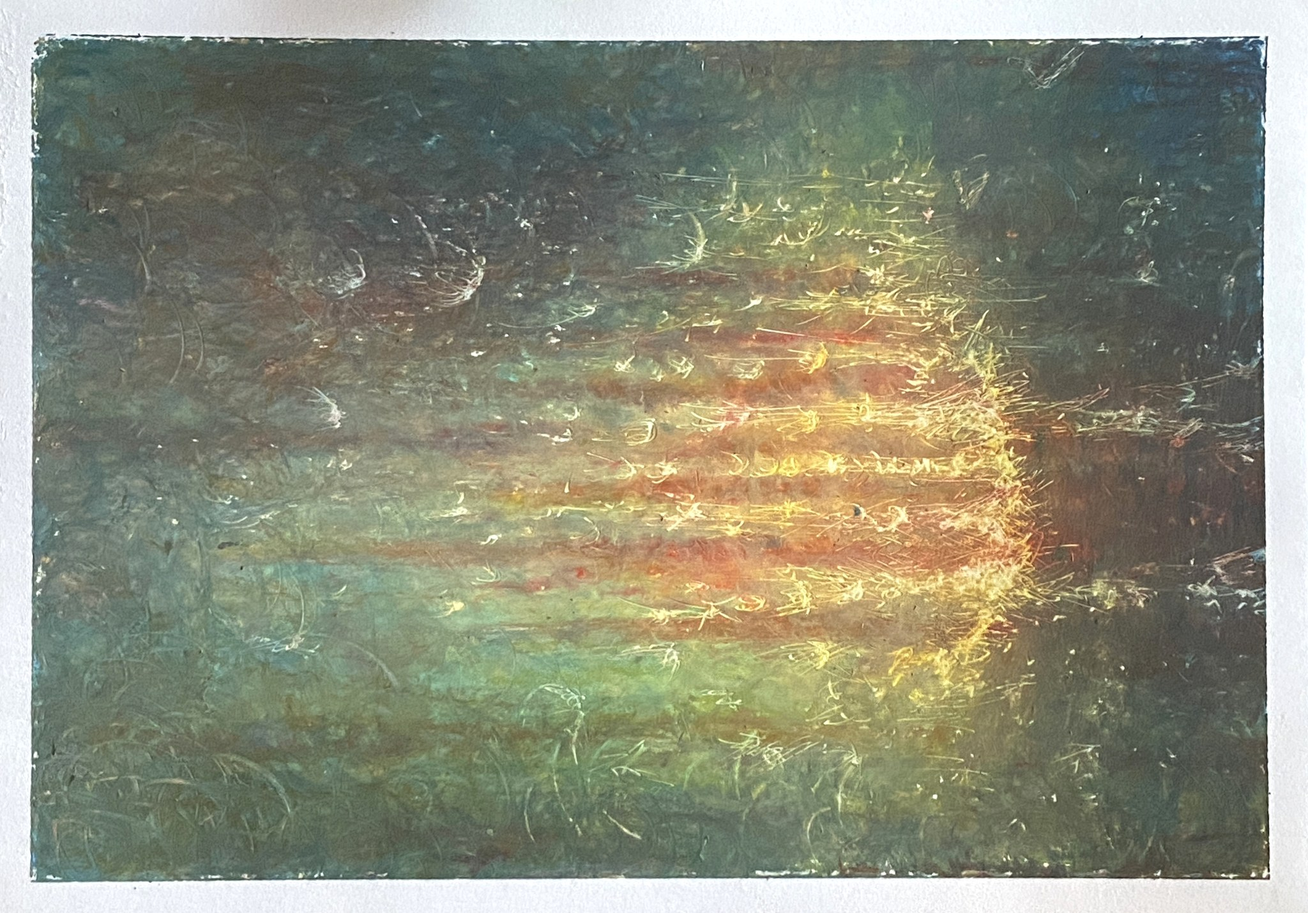
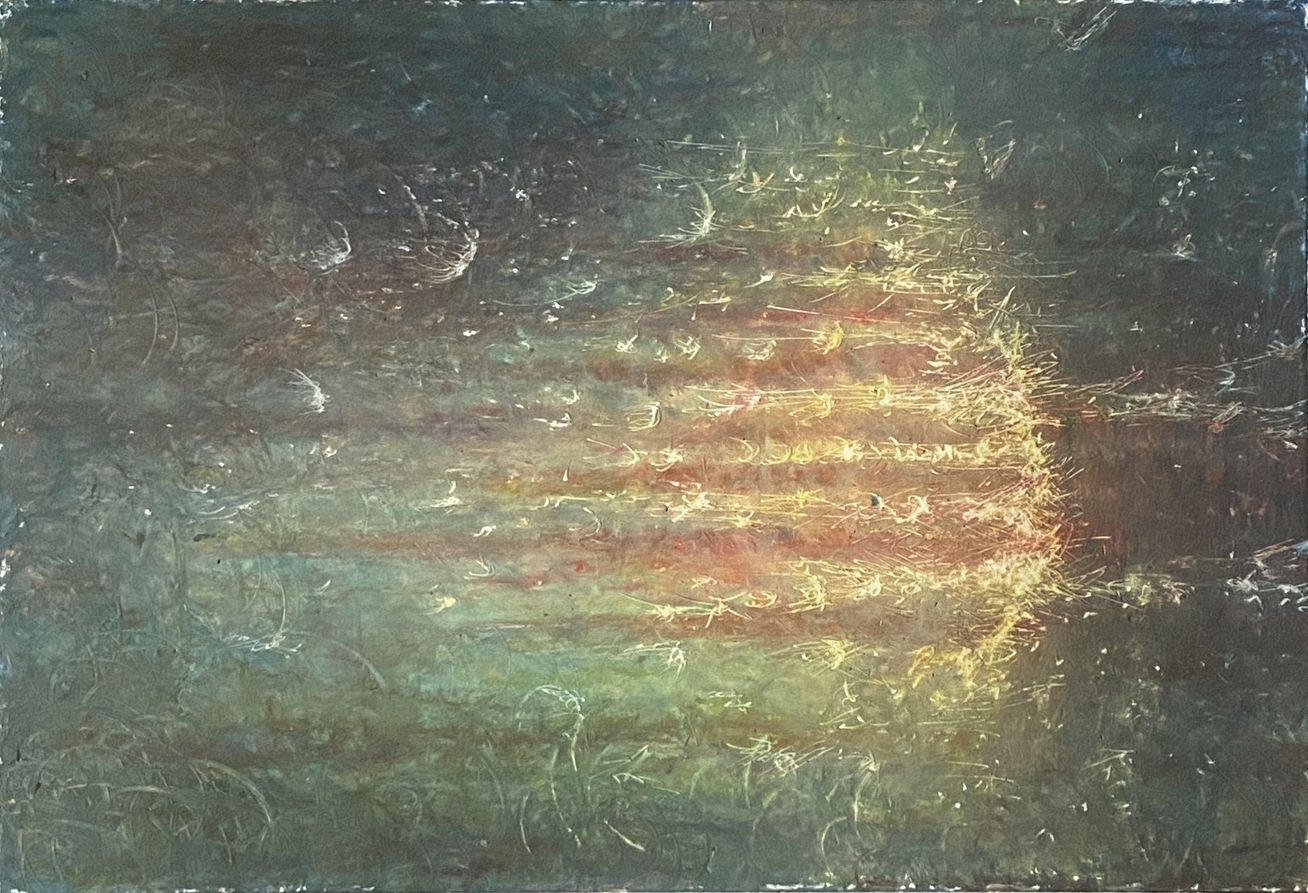
Reimport edited artworks, switch to white/black palette
Regenerate full and thumbnail images from the color-adjusted source
photos. Switch page background and bars to pure white with a subtle
0.25px border, and set body text to 62% black throughout.

Claude-Session: https://claude.ai/code/session_01BqimxdbZoGHgeWE932nf4o

diff --git a/css/style.css b/css/style.css
@@ -1,9 +1,10 @@
 :root {
-  --color-bg: #e5e2dd;
+  --color-bg: #ffffff;
   --color-bg-alt: #bdb7ab;
-  --color-accent: #8e847c;
+  --color-accent: #ffffff;
   --color-bar: #5c5a55;
-  --color-text: #404241;
+  --color-text: rgba(0, 0, 0, 0.62);
+  --color-border: rgba(0, 0, 0, 0.25);
 
   --breakpoint-mobile: 768px;
 }
@@ -40,6 +41,7 @@ a {
   z-index: 40;
   background: var(--color-accent);
   color: var(--color-text);
+  border-bottom: 0.25px solid var(--color-border);
 }
 
 .topbar__inner {
@@ -62,7 +64,7 @@ a {
 .lang-toggle {
   background: var(--color-accent);
   color: var(--color-text);
-  border: none;
+  border: 0.25px solid var(--color-border);
   border-radius: 4px;
   padding: 0.4rem 0.9rem;
   font-size: 0.9rem;
@@ -181,6 +183,7 @@ a {
   z-index: 40;
   background: var(--color-accent);
   color: var(--color-text);
+  border-top: 0.25px solid var(--color-border);
 }
 
 .bottombar__inner {
@@ -261,7 +264,7 @@ a {
 
 .lightbox__close:hover,
 .lightbox__nav:hover {
-  background: var(--color-accent);
+  background: rgba(92, 90, 85, 0.85); /* --color-bar, darker on hover */
 }
 
 .lightbox__close {
